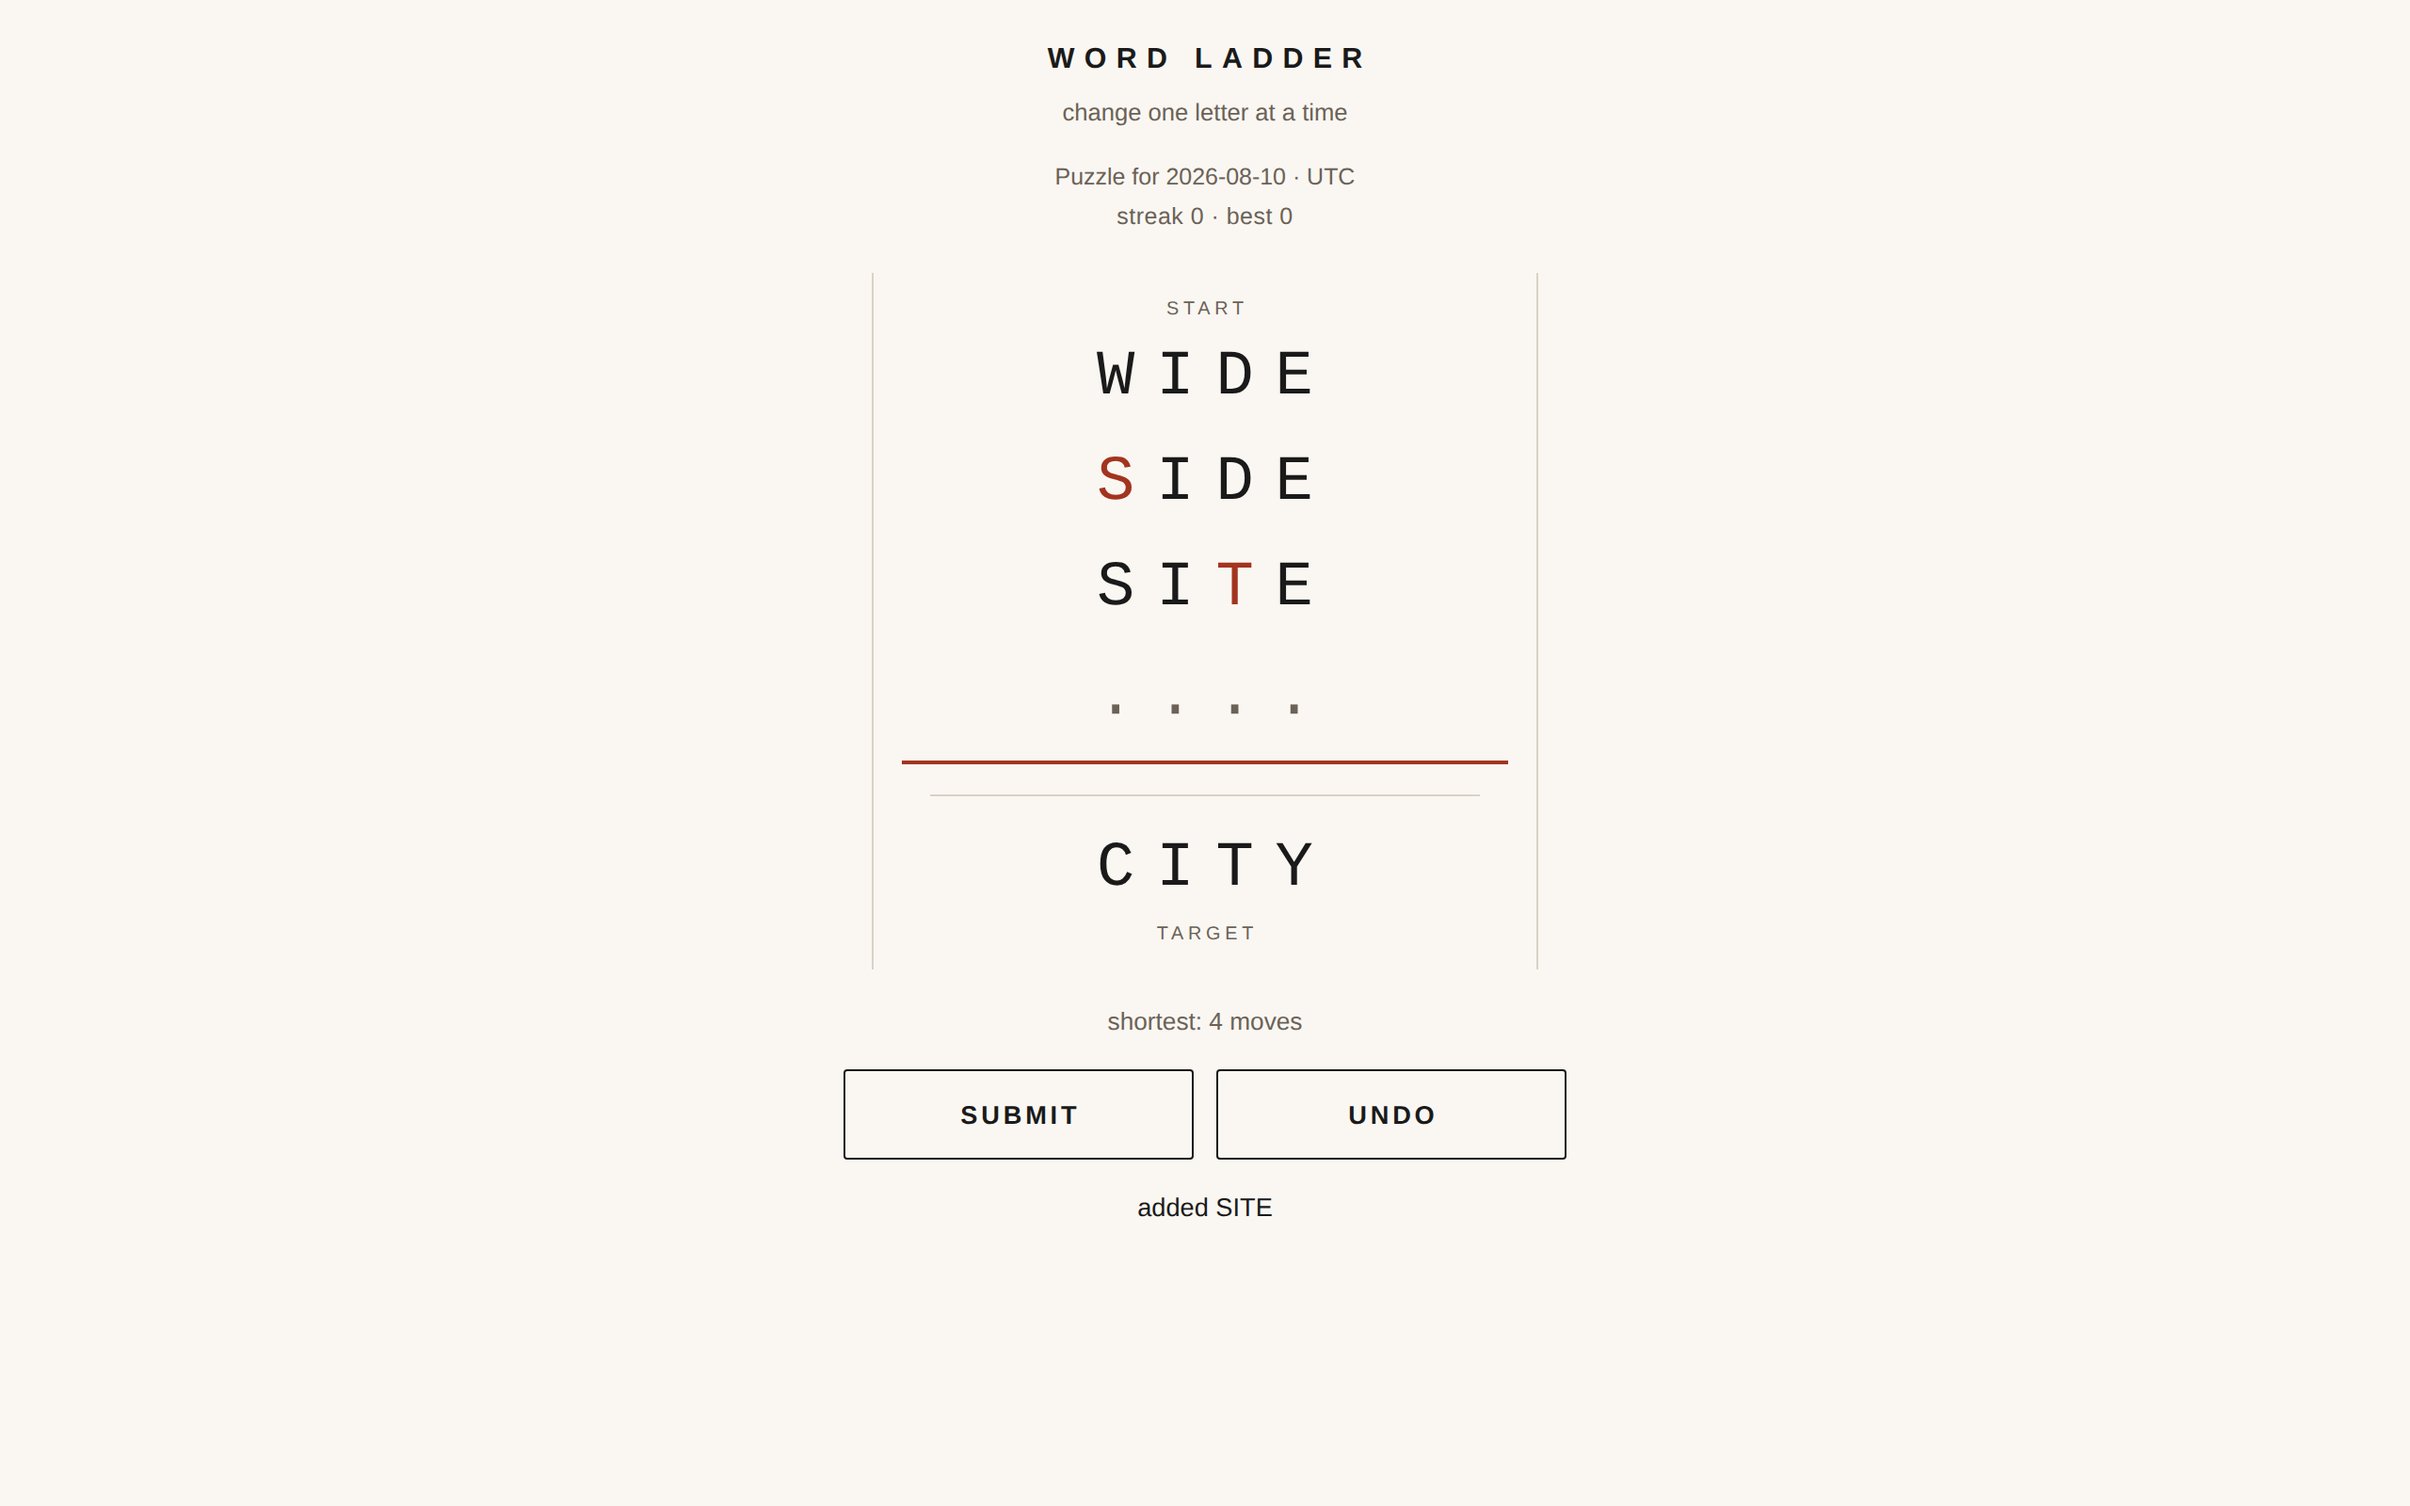
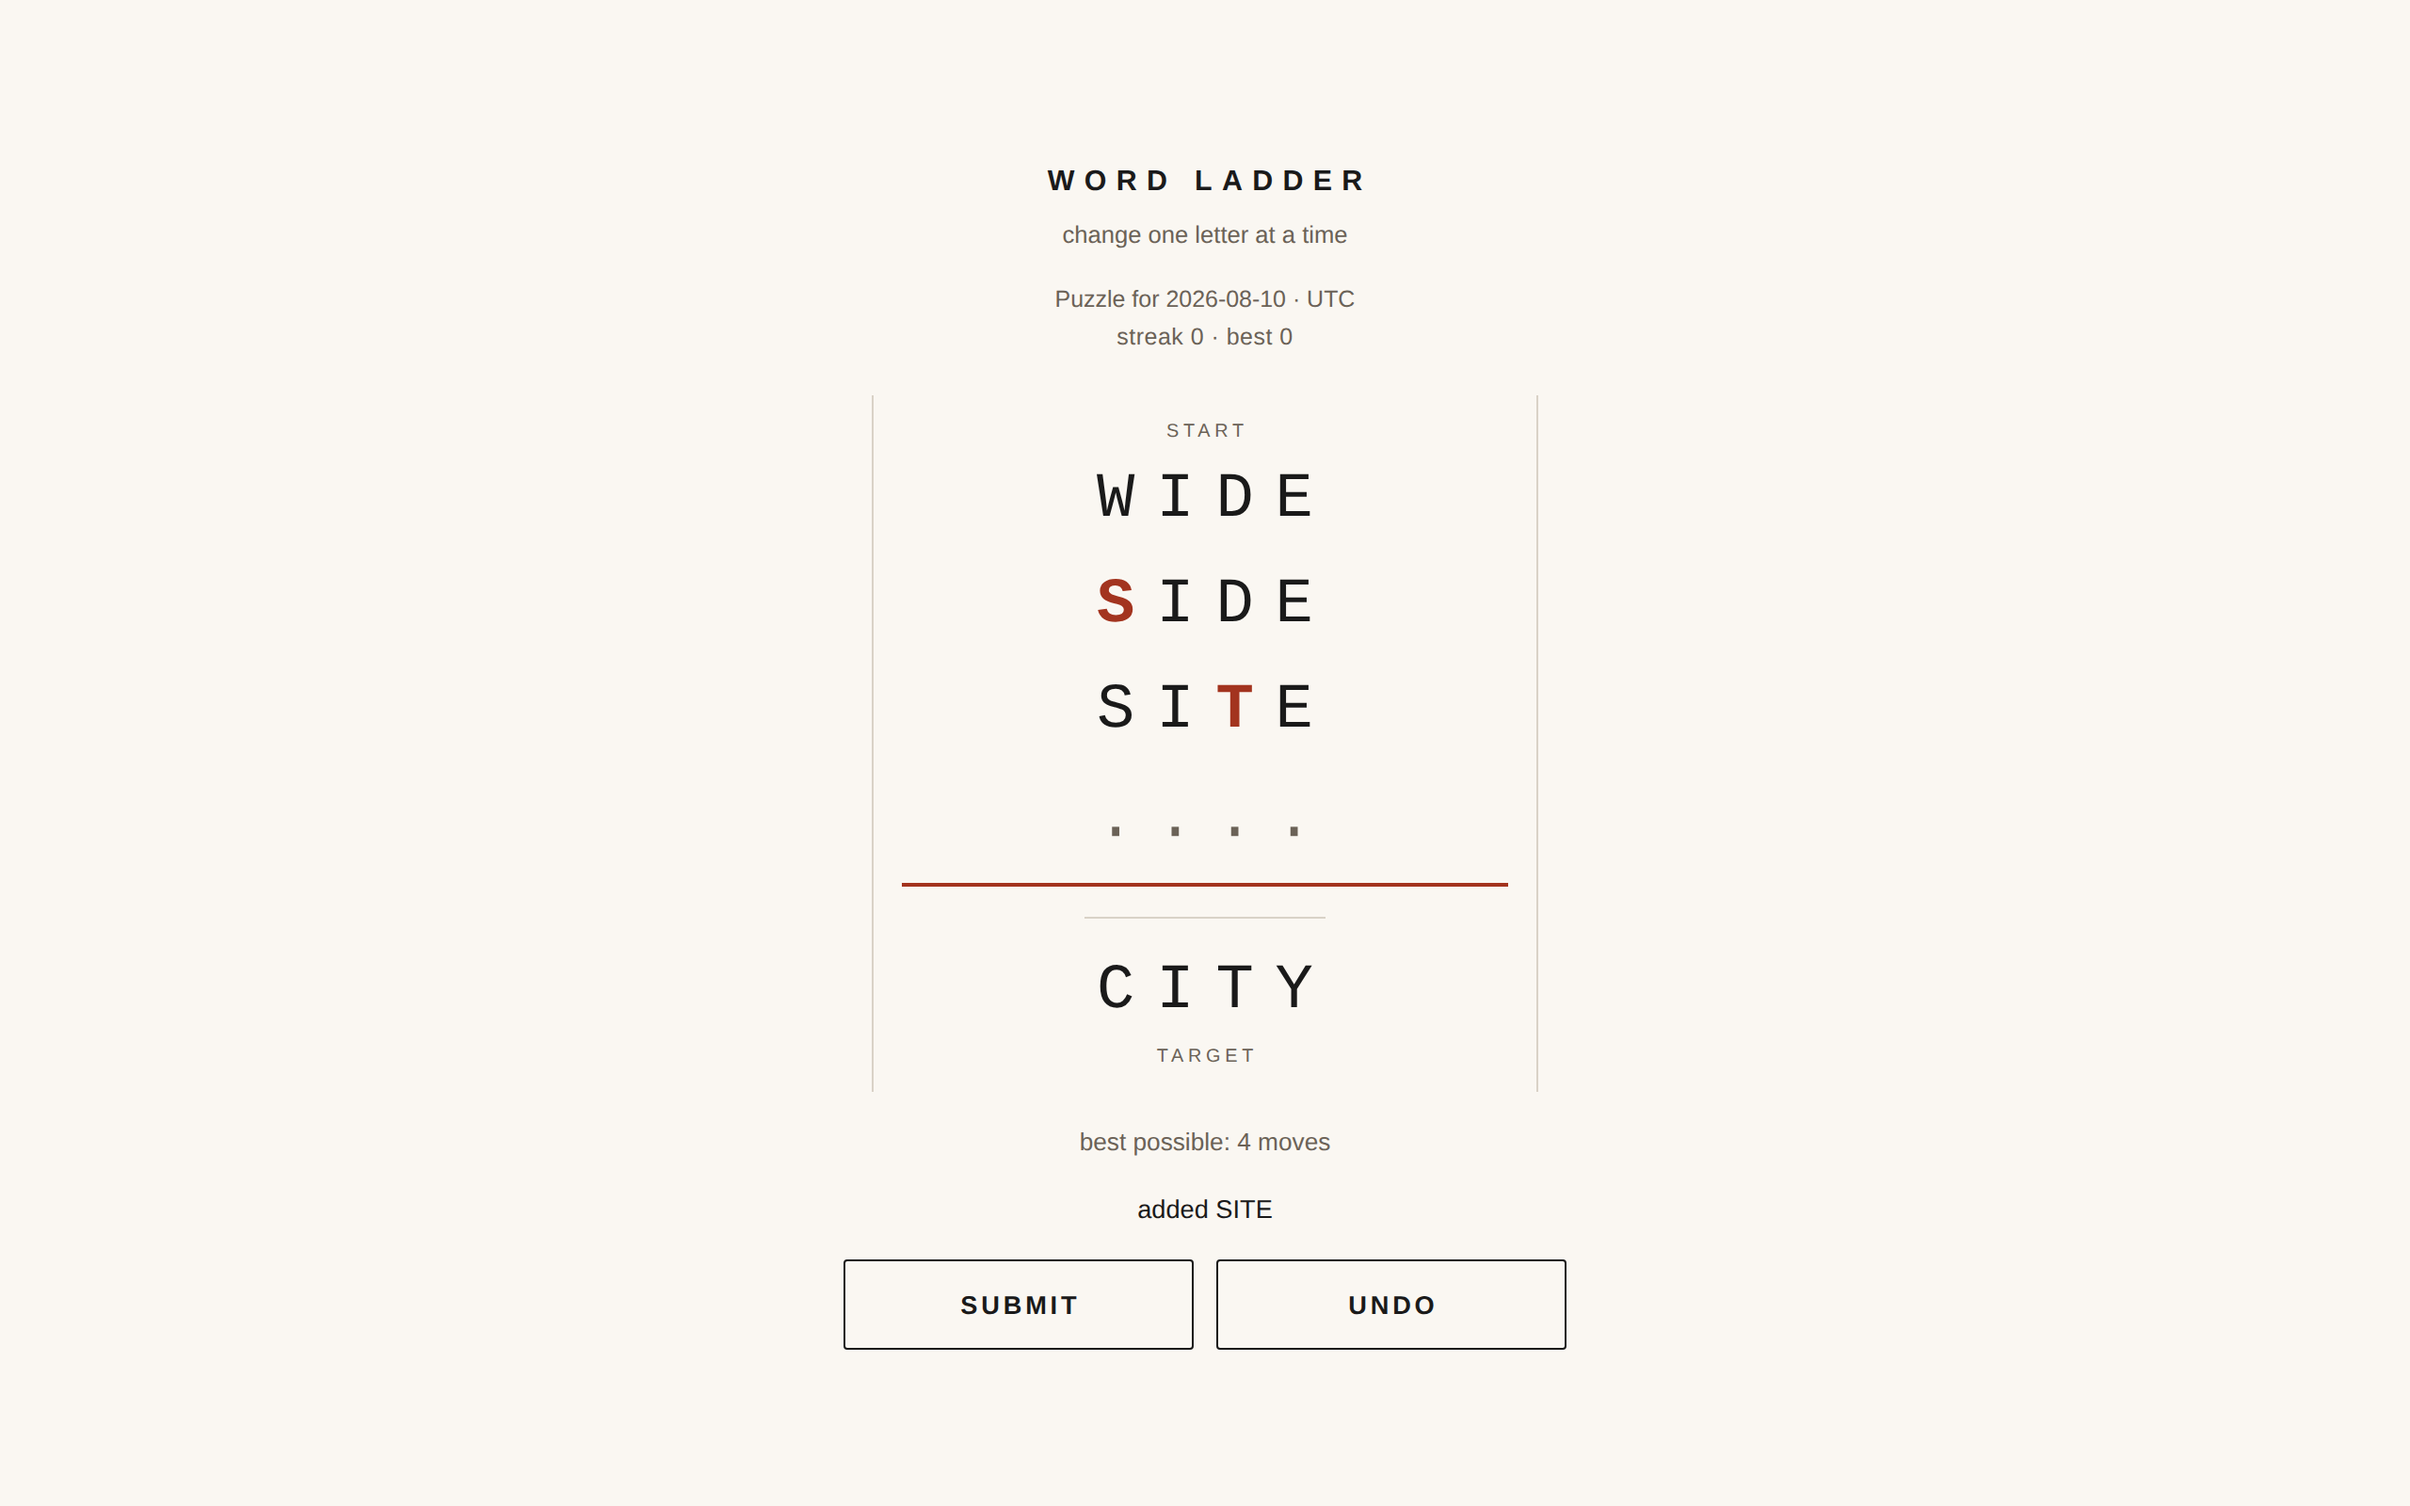
docs: screenshot.png depicts the build again, and the caption depicts the screenshot (H14/U17, A)
The committed image was three cycles old: `shortest: 4 moves` where the
status line now says `best possible: 4 moves`, the message below the
buttons where U3 moved it above them, a 272px hairline where U7 made it
128px, plain accent letters where U8 made them bold, and a top-pinned
board where U4 centres it. 65,260 of 4,096,000 pixels differed, over the
whole content column — and the README's own prose two paragraphs down
quotes `best possible: N moves`, so the contradiction was visible
without leaving the page.

Recaptured with the same recipe as before: 1280x800 at deviceScaleFactor
2, fresh profile (streak 0 · best 0), Date pinned to 2026-08-10 12:00
UTC before navigation, SIDE and SITE played, header/status/message
asserted before the shutter. Re-rendering the same recipe afterwards
gives a 0-pixel diff against the committed file. Captured last, after
every visual change this cycle had landed.

README:7's caption goes with it: the changed letter is bold as well as
accented now (U8), and it is on every rung below the start.

diff --git a/README.md b/README.md
@@ -4,7 +4,7 @@ A new four-letter word ladder every day: change one letter at a time to get from
 
 ![screenshot](screenshot.png)
 
-*Two moves into the puzzle for 2026-08-10: START at the top, TARGET behind a rule at the bottom, the played chain (WIDE, SIDE, SITE) filling the gap, and on each rung the letter that changed from the rung above set in the accent colour.*
+*Two moves into the puzzle for 2026-08-10: START at the top, TARGET behind a rule at the bottom, the played chain (WIDE, SIDE, SITE) filling the gap, and on every rung below the start, the letter that changed from the rung above set bold and in the accent colour.*
 
 **[Live demo](https://yinggarykairui.github.io/word-ladder/)**
 
